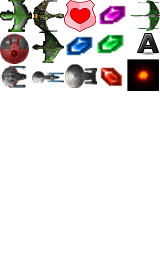
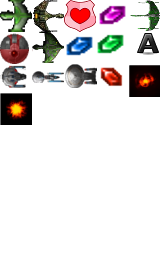
Adding new animated tileblocks Issue Number:
Description:
    New features:

Benchmarks:
    Developed with the following benchmarks:

Todo:

Changed region(s): [[0.7812, 0.2188, 1.0, 0.4062], [0.0, 0.3438, 0.2188, 0.5]]

diff --git a/Resources/maps/objects.tsx b/Resources/maps/objects.tsx
@@ -78,6 +78,13 @@
  <tile id="14">
   <properties>
       <property name="object_type" value="AnimatedTileBlock"/>
+      <property name="animation" value="FIRE_BALL"/>
+  </properties>
+ </tile>
+ <tile id="15">
+  <properties>
+      <property name="object_type" value="AnimatedTileBlock"/>
+      <property name="animation" value="FIRE_SPELL"/>
   </properties>
  </tile>
 </tileset>
